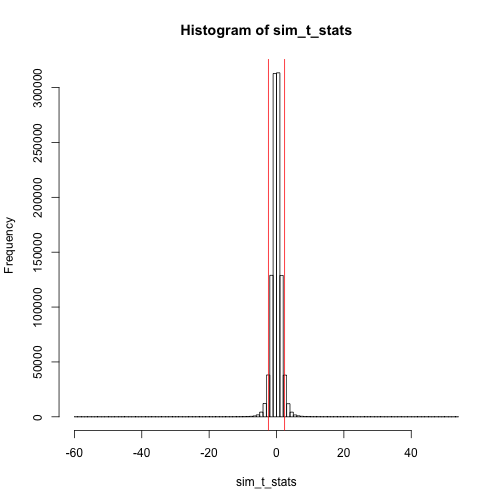
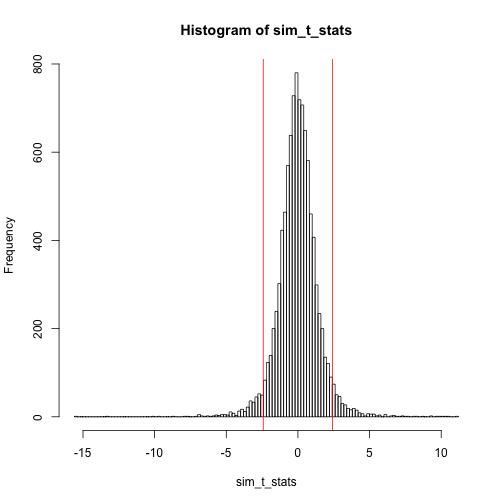
should be better

diff --git a/blog/_posts/2015-11-18-one_sample_t-test.md b/blog/_posts/2015-11-18-one_sample_t-test.md
@@ -1,5 +1,5 @@
 ---
-layout: default
+layout: post
 title: T-test 101
 subtitle: What is t-test and why it works
 categories: category1
@@ -7,6 +7,7 @@ body-class: categoryclass
 tags: [R, NHST]
 ---
 
+The source code of this post is right [here](https://github.com/vladpetyuk/vladpetyuk.github.io/blob/master/blog/_R/2015-11-18-one_sample_t-test.Rmd).
 
 T-test is one of the basic tests used in biology (and perhaps most 
 others scientific disciplines). However, it is not always interpreted correctly.
@@ -23,7 +24,7 @@ plot(sample_x, ylim=c(min(0,sample_x),max(0,sample_x)))
 abline(h=0, col='red')
 {% endhighlight %}
 
-![testing](/blog/figs/2015-11-18-one_sample_t-test/generate_sample-1.png) 
+![figure](/blog/figs/2015-11-18-one_sample_t-test/generate_sample-1.png) 
 
 {% highlight r %}
 mean(sample_x)
@@ -58,18 +59,17 @@ print(sample_t_stat)
 Hence, our doubt that the mean of the sample is actually not any different from
 the NULL value can be posed in a more quantitative way. That is:
 
-*What is the probability of achieving as big or more extreme t-statistic 
-for a sample with the mean equal to the NULL mean?*
+_**What is the probability of achieving as big or more extreme t-statistic 
+for a sample with the mean equal to the NULL mean?**_
 
-Let's calculate this probability directly by generating 1 million random 
-samples with mean equal to zero.
+Let's calculate this probability directly by generating a large number of random samples with mean equal to zero.
 
 As a first step we'll generate random samples with mean equal to the NULL mean.
 The actual value of the standard deviation at this point does not matter.
 The t-statistic is scaled by the standard deviation anyway.
 
 {% highlight r %}
-N_simulations <- 1000000
+N_simulations <- 10000 #1000000
 sim_x <- replicate(N_simulations, rnorm(N,mu_null,sd=1))
 print(sim_x[,1:5])
 {% endhighlight %}
@@ -85,7 +85,7 @@ print(sim_x[,1:5])
 ## [5,]  2.404653389 -0.2992151 -1.2375384 -0.05710677  0.04672617
 {% endhighlight %}
 
-Calculating t-statistics for 1 million random samples.
+Calculating t-statistics for the generated random samples.
 
 {% highlight r %}
 sim_x_mean_diff <- colMeans(sim_x) - mu_null
@@ -107,7 +107,7 @@ hist(sim_t_stats, 100)
 abline(v=c(-sample_t_stat,+sample_t_stat), col='red')
 {% endhighlight %}
 
-![testing](/blog/figs/2015-11-18-one_sample_t-test/two_tails-1.png) 
+![figure](/blog/figs/2015-11-18-one_sample_t-test/two_tails-1.png) 
 
 {% highlight r %}
 equal_or_more_extreme <- abs(sim_t_stats) >= abs(sample_t_stat)
@@ -118,7 +118,7 @@ print(calc_p_val)
 
 
 {% highlight text %}
-## [1] 0.072436
+## [1] 0.0694
 {% endhighlight %}
 
 The actual t-test p-value is:
@@ -133,4 +133,4 @@ print(t.test(sample_x)$p.value)
 ## [1] 0.07273875
 {% endhighlight %}
 
-Very close!
+The directly calculated probability of achieving the same or more extreme t-statistic and the p-value from the R's `t.test` are quite close!

diff --git a/aboutme.md b/aboutme.md
@@ -6,24 +6,47 @@ subtitle: to be evolved
 
 _**THE PAGE IS UNDER CONSTRUCTION**_
 
-##Work 
-
-Since 2004 I have been working as a scientist at [Pacific Northwest National Laboratory][PNNL].
-
 ##Education
+* __1992-1997:__ specialist (BS/MS) in chemistry from the [Novosibirsk State University][NSU]
+* __1997-2001:__ PhD in biochemistry from the [Novosibirsk State University][NSU]. The actual work has been performed at the [Institute of Chemical Biology and Fundamental Medicine](ICBFM)
+* __2008-2011:__ equivalent to BS minor in computer science from [North Carolina State University][NCSU]
+* __present:__ My life as probably anyone else's is a continuous learning process.
 
+<!--
 * __Formal:__ I finished my PhD in the [Novosibirsk State University][NSU] in 2001. My thesis was focused on thermodynamics and kinetics of nucleic acid interaction involving structured regions. See my publications at [NCBI collection][ncbi_collection] page.
 * __Informal:__ My life as probably anyone else's is a continuous learning process.
+-->
 
+##Post-Doc Training
+* __2001-2004__ protein engineering of site-specific recombinase Cre in Dr. Brian Sauer lab at [OMRF][OMRF] and [Stowers Institute for Medical Research][SIMR]
+* __2004-2006__ LC-MS proteomics in [Dr. Richard Smith lab][SmithLab] at [Pacific Northwerst National Laboratory](www.pnnl.gov)
+
+##Work 
+Since 2006 I have been working as a senior scientist at the [Pacific Northwest National Laboratory][PNNL]. See my publications at [NCBI collection][ncbi_collection] page.
+
+
+<!--
 ##Reasearch Focus
 
 Proteomics, thorough data analysis, systems biology, neurodegenerative disorders and aging.
+-->
 
 <!--
 **Hobbies**: I kind of actually like science. Really fascinated with good old w
 -->
 
 
-[PNNL]: http://www.pnnl.gov
-[NSU]: http://www.nsu.ru
+
+<!-- references -->
+
+[ICBFM]: http://www.niboch.nsc.ru/doku.php/en
+[NCSU]: https://distance.ncsu.edu/programs/undergraduate-certificate-in-computer-programming
+<!--
+	http://engineeringonline.ncsu.edu/onlinecourses/cpc_courses.html
+-->
+[PNNL]: http://omics.pnl.gov/staff-page/Petyuk/Vladislav%20%28Vlad%29
+[NSU]: http://www.nsu.ru/94c03890f28fd119db233e2f3df360c3
 [ncbi_collection]: http://www.ncbi.nlm.nih.gov/myncbi/browse/collection/48526650/
+[OMRF]: https://omrf.org
+[SIMR]: http://www.stowers.org
+[SmithLab]: http://www.pnnl.gov/science/staff/staff_info.asp?staff_num=5832

diff --git a/blog/_posts/2015-11-18-hello_world.md b/blog/_posts/2015-11-18-hello_world.md
@@ -1,15 +1,18 @@
 ---
-layout: default
+layout: post
 title: Hello World
 subtitle: one day this gotta happen
 categories: category1
 body-class: categoryclass
 ---
 
-It did really feel that I need a place on the web for self-expression.  I think I can add some value with my posts of my biomedical research, computational biology and perhaps math in general.
+It did really feel that I need a place on the web for self-expression.  I think I can add some value with my posts of my biomedical research, R, computational biology and perhaps math in general.
 
-As an acknowledgement I'd like to point out a few `github.io` sites that I used for figuring out how this `R/Jekyll/GitHub` thing works.
+As an acknowledgement I'd like to point out a few folks & sites that I used for figuring out how this `R/Jekyll/GitHub` thing works.
 
+* [http://deanattali.com/beautiful-jekyll/](http://deanattali.com/beautiful-jekyll/)
 * [ouzor.github.io](http://ouzor.github.io)
 * [nicolewhite.github.io](http://nicolewhite.github.io)
 * [lgatto.github.io](http://lgatto.github.io)
+* [http://joshualande.com](http://joshualande.com)
+* [Post](http://gastonsanchez.com/blog/opinion/2014/02/16/Mathjax-with-jekyll.html) how to do MathJax in Jekyll.

diff --git a/blog/_posts/2015-11-18-testR.md b/blog/_posts/2015-11-18-testR.md
@@ -1,5 +1,5 @@
 ---
-layout: default
+layout: post
 title: Testing R
 subtitle: How to make an R post with a graph
 categories: category1
@@ -22,5 +22,5 @@ y <- rnorm(10)
 plot(x, y)
 {% endhighlight %}
 
-![testing](/blog/figs/2015-11-18-testR/unnamed-chunk-1-1.png) 
+![figure](/blog/figs/2015-11-18-testR/unnamed-chunk-1-1.png) 
 
